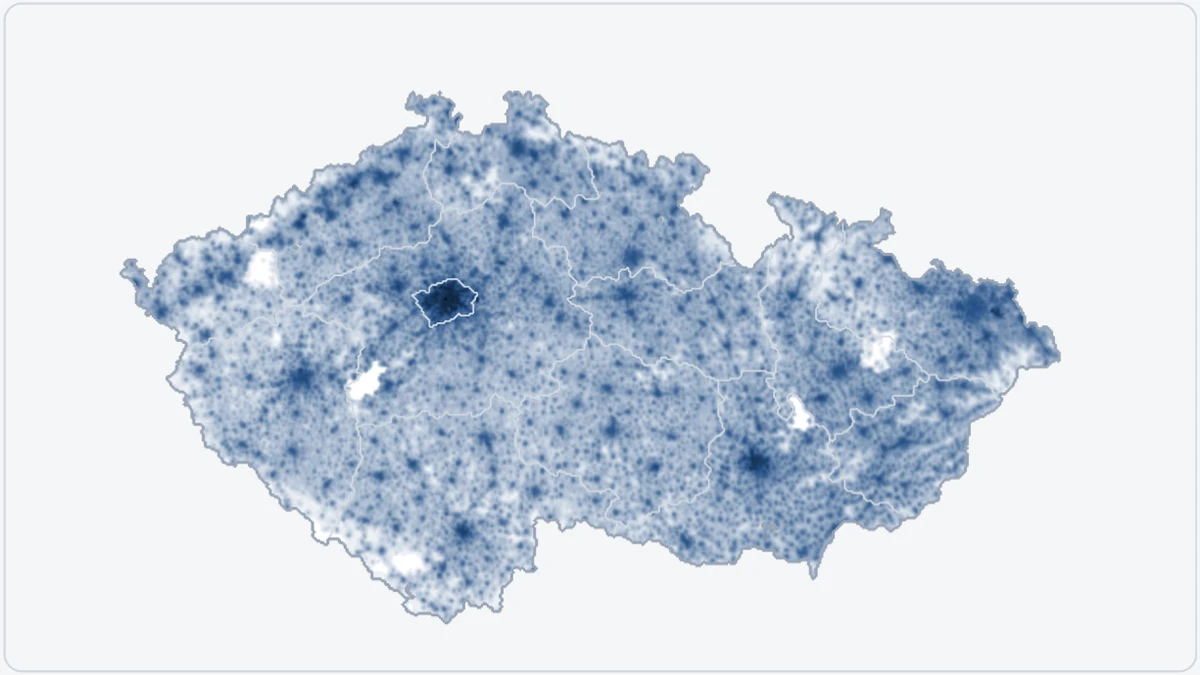
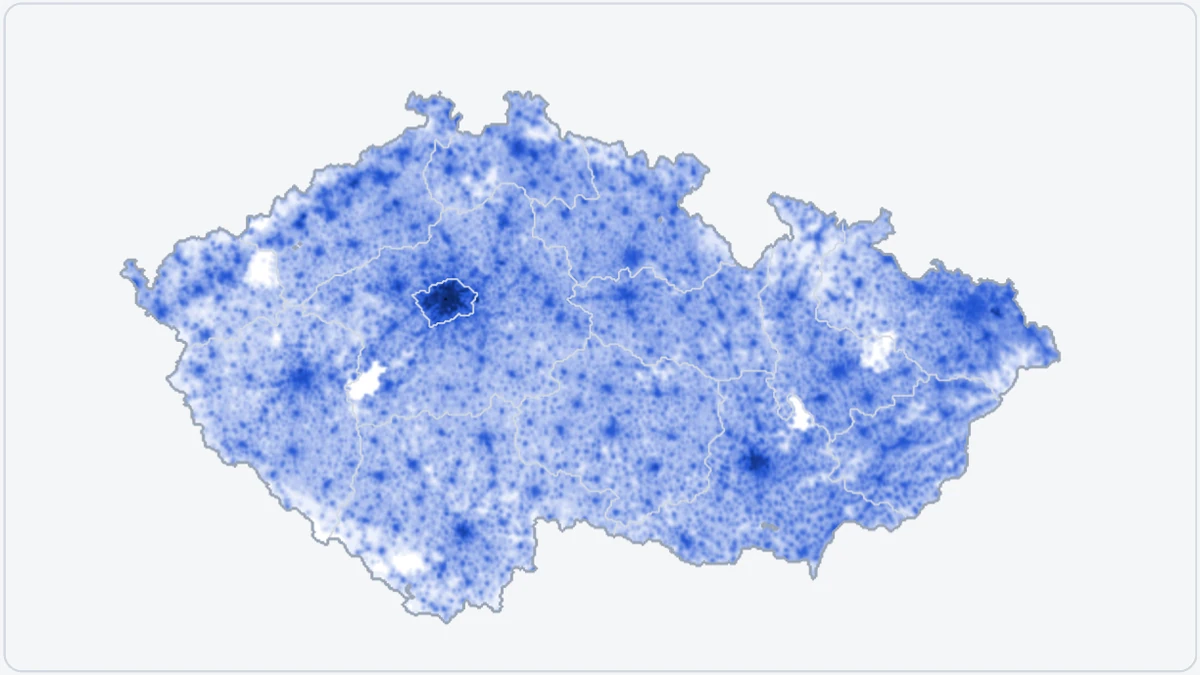
Move to demo-kit 0.5.0: Cherenkov-blue people on light
Version 1.6.0. People take the kit's brighter light accent, and the
densest deepen to #0d2766 with the same darkening as before. Light
stills re-rendered. The plan records step 11 and ticks v1.5.0.

Changed region(s): [[0.0925, 0.1244, 0.8942, 0.9022]]

diff --git a/demo/test/engine.test.js b/demo/test/engine.test.js
@@ -7,7 +7,7 @@ import { createPainter } from '../src/render/paint.js';
 import { createEngine } from '../src/sim/engine.js';
 
 const DARK = { night: '#0a0e14', land: '#111722', people: '#f6be55', peoplePeak: '#e8ecf2', zombie: '#c13c36', frontPeak: '#e8ecf2', dead: '#9aa6b8' };
-const LIGHT = { night: '#f5f6f8', land: '#ffffff', people: '#285388', peoplePeak: '#0f253f', zombie: '#5ca24c', frontPeak: '#2d5923', dead: '#2f3642' };
+const LIGHT = { night: '#f5f6f8', land: '#ffffff', people: '#2456d3', peoplePeak: '#0d2766', zombie: '#5ca24c', frontPeak: '#2d5923', dead: '#2f3642' };
 const PARAMS = { beta: 0.01, alpha: 0.004, zeta: 0.05, diffusion: 1, flee: 1, threshold: 1, epsilon: 1e-3, dt: 0.1 };
 
 // 6 × 4 cells: a neighbour (21) down the left side, Czech cells elsewhere, 100 people each.

diff --git a/demo/src/demo.css b/demo/src/demo.css
@@ -13,7 +13,7 @@
 }
 
 :root[data-theme="light"] [data-demo] {
-  --zo-people-peak: #0f253f;
+  --zo-people-peak: #0d2766;
   --zo-front-peak: #2d5923;
   --zo-dead: #2f3642;
 }

diff --git a/docs/plan.md b/docs/plan.md
@@ -59,7 +59,7 @@ The reference implementation is `src/zombie_outbreak/model.py`, whose docstring 
 The look is called "the lights go out":
 
 - **Dark theme.** Population as sodium-amber (`#f6be55`) lights on the navy background, zombies glowing ember red (`#c13c36`), and the dead going dark.
-- **Light theme.** Ink density on the pale background: viridis-blue (`#285388`) people and green (`#5ca24c`) zombies.
+- **Light theme.** Ink density on the pale background: Cherenkov-blue (`#2456d3`) people and green (`#5ca24c`) zombies.
 
 Since step 10, these colours are demo-kit v0.4.0's colour roles, which the site shares: people take the main highlight (`--color-accent`) and zombies the contrasting one (`--color-accent-2`), in the map and the chart. The map also reads `--color-bg`, `--color-surface`, `--color-text`, `--color-border` and `--color-curve`. The demo's own colours, in `demo/src/demo.css`, are the densest people and the front at its strongest (`--zo-people-peak`, `--zo-front-peak`) and the dead (`--zo-dead`). Like the kit, the demo is dark unless `<html data-theme="light">`.
 
@@ -253,7 +253,13 @@ Agreed with Mark on 2026-11-19 (see doctor-who-ratings' plan, "A shared palette"
 - [x] **The light theme's deeper shades.** Mark chose from three options rendered on the same run (2026-11-20). The densest people deepen to navy `#0f253f` and the front to deep green `#2d5923`, the same darkening the ochre and red had, and the dead stay charcoal `#2f3642`. That charcoal is ΔE 13 from the people and 7.7 from the navy, closer than the ochre was. The other options were the dead in pale grey (faint in the chart, at 2:1) or in a neutral charcoal with no deeper shades.
 - [x] **No colour names in the copy.** "What you're seeing" named amber, red and grey, which no longer fit the light theme. It now says the map is coloured like the chart, as a stand-in until Mark rewrites the paragraph. The opening still's alt text drops "in amber".
 - [x] Re-render the stills with `scripts/stills.py`.
-- [ ] Merging releases `v1.5.0`.
+- [x] Merging released `v1.5.0` on 2026-11-20.
+
+### 11. A brighter light accent: release `v1.6.0`
+Mark found the light accent dull (2026-11-20), and chose Cherenkov blue `#2456d3` from three options rendered on the live site, with zombies staying green.
+- [x] **Kit v0.5.0** ([demo-kit#8](https://github.com/Mark-Bugden/demo-kit/pull/8)): people are Cherenkov blue on light. The densest people deepen to `#0d2766`, with the same darkening as before. The dead, charcoal `#2f3642`, now sit ΔE 24.5 from the people, up from 13.2.
+- [x] Re-render the stills with `scripts/stills.py`.
+- [ ] Merging releases `v1.6.0`.
 
 ## Open questions
 
